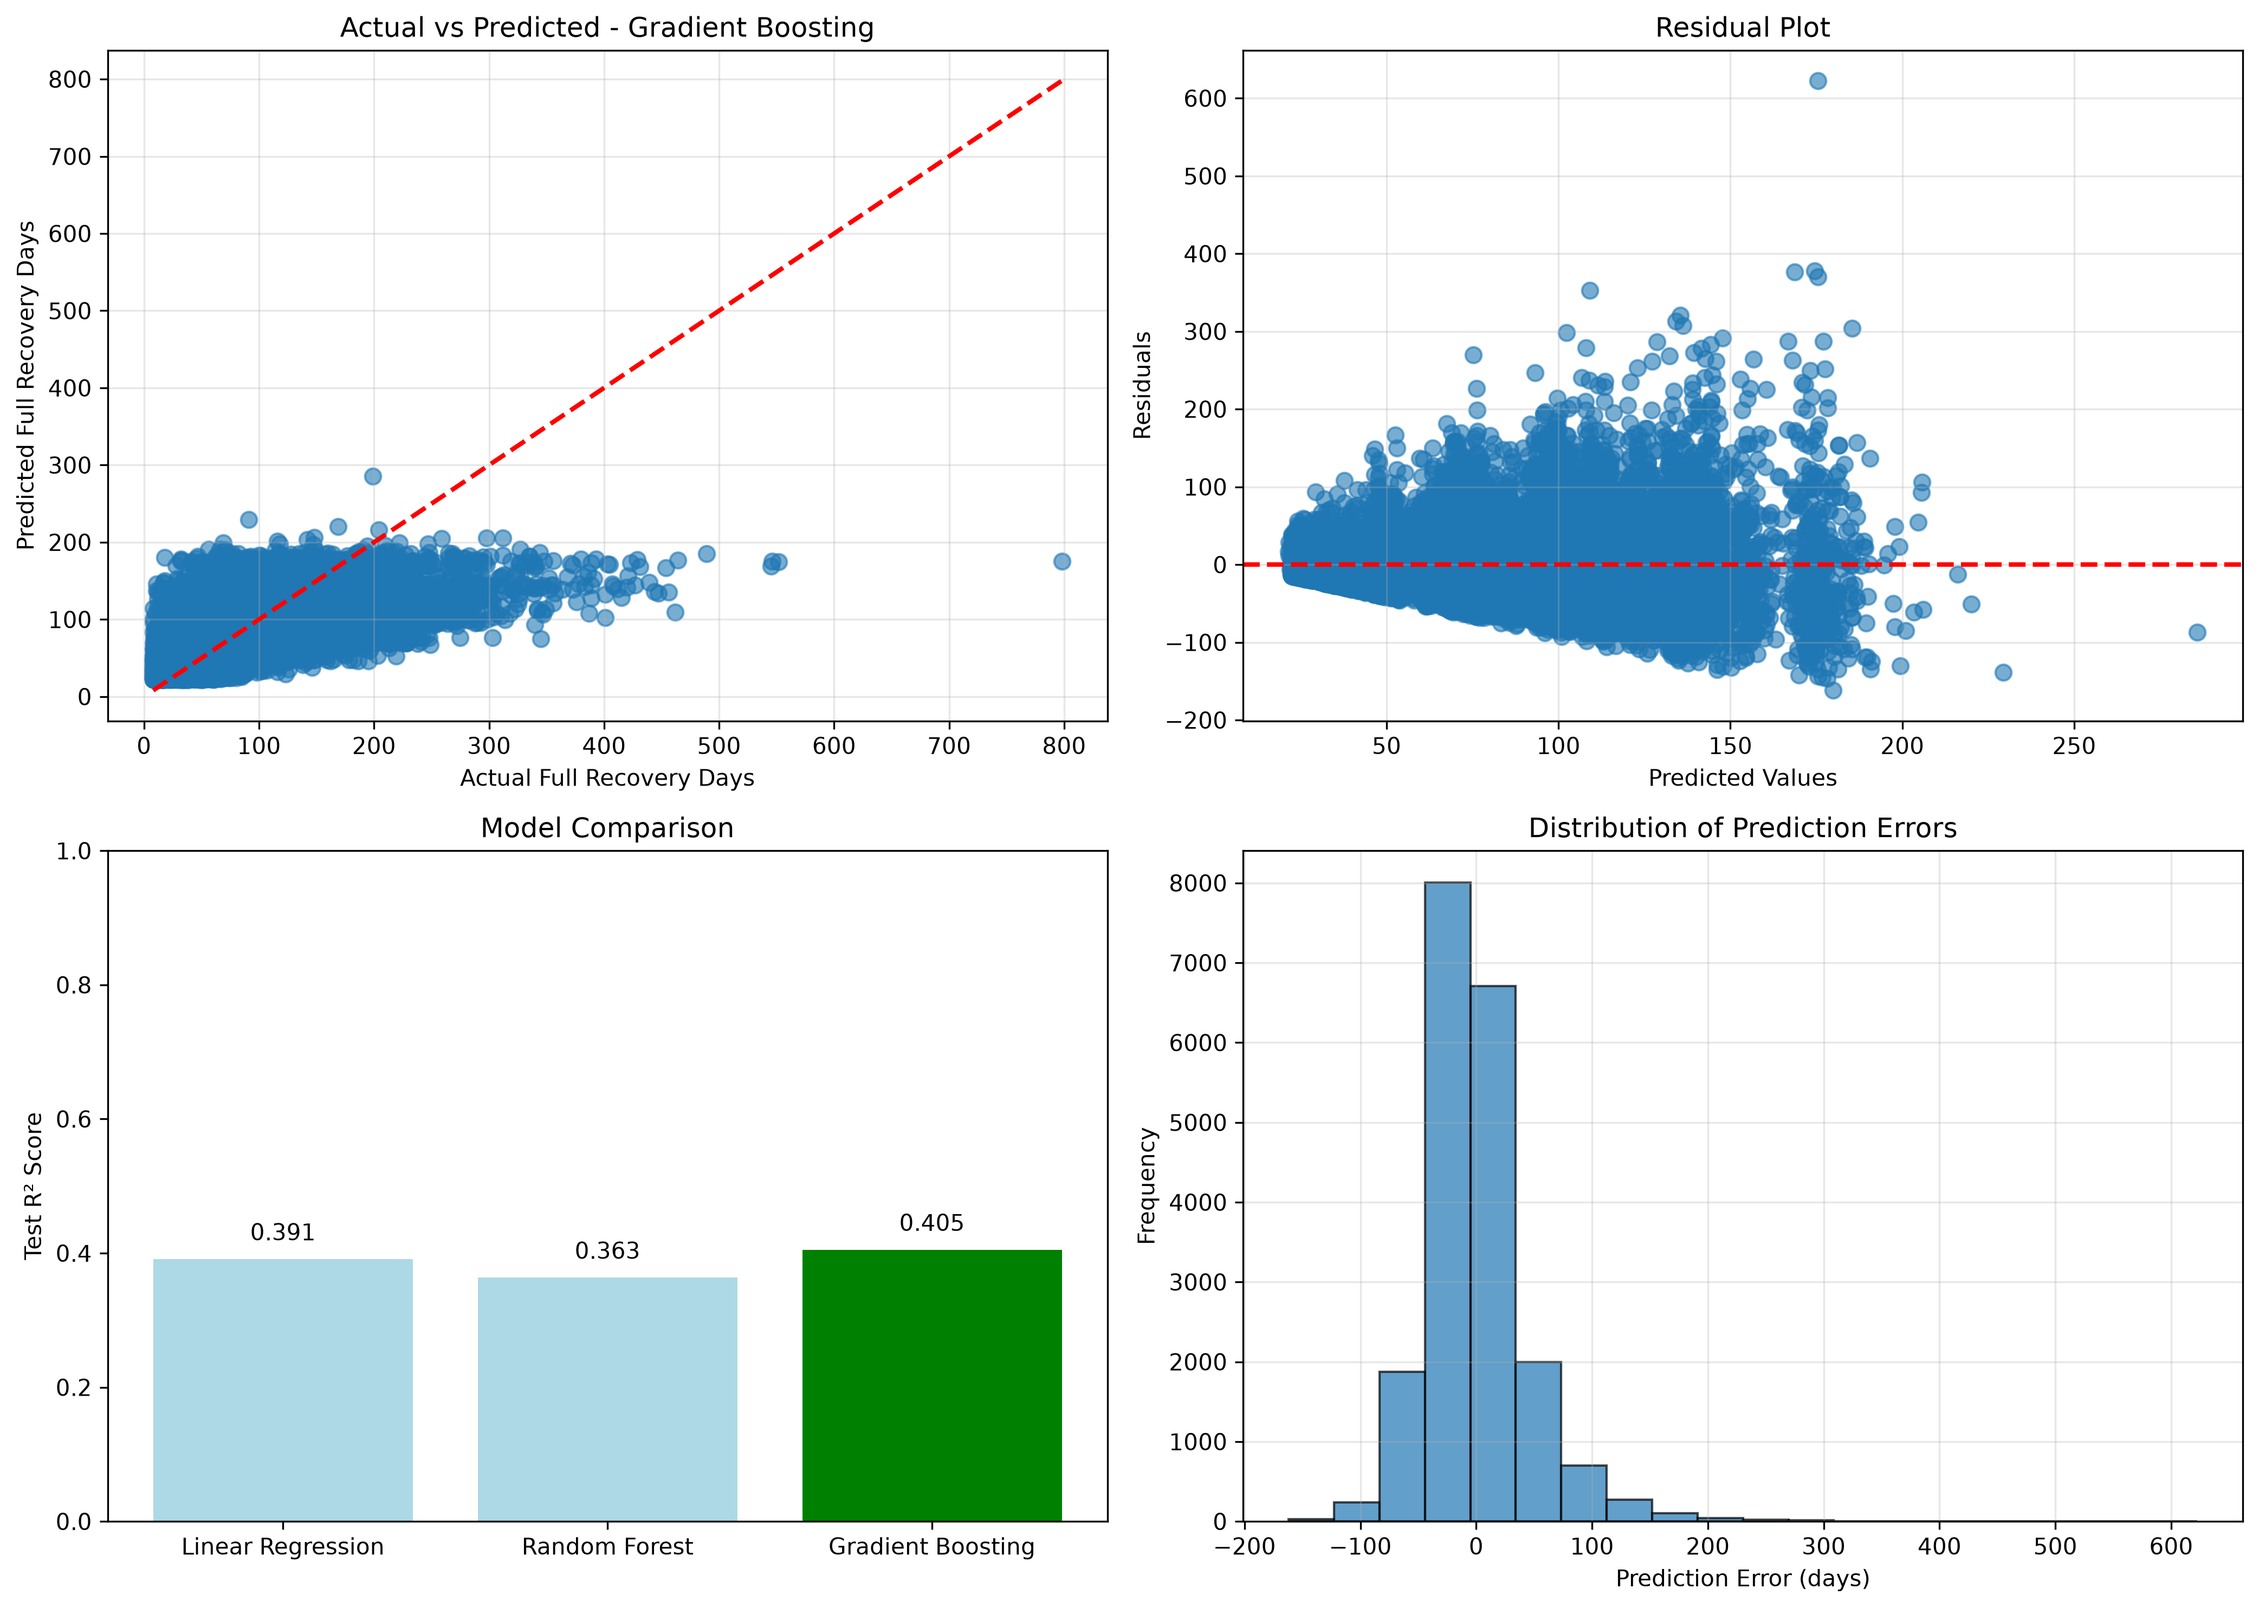
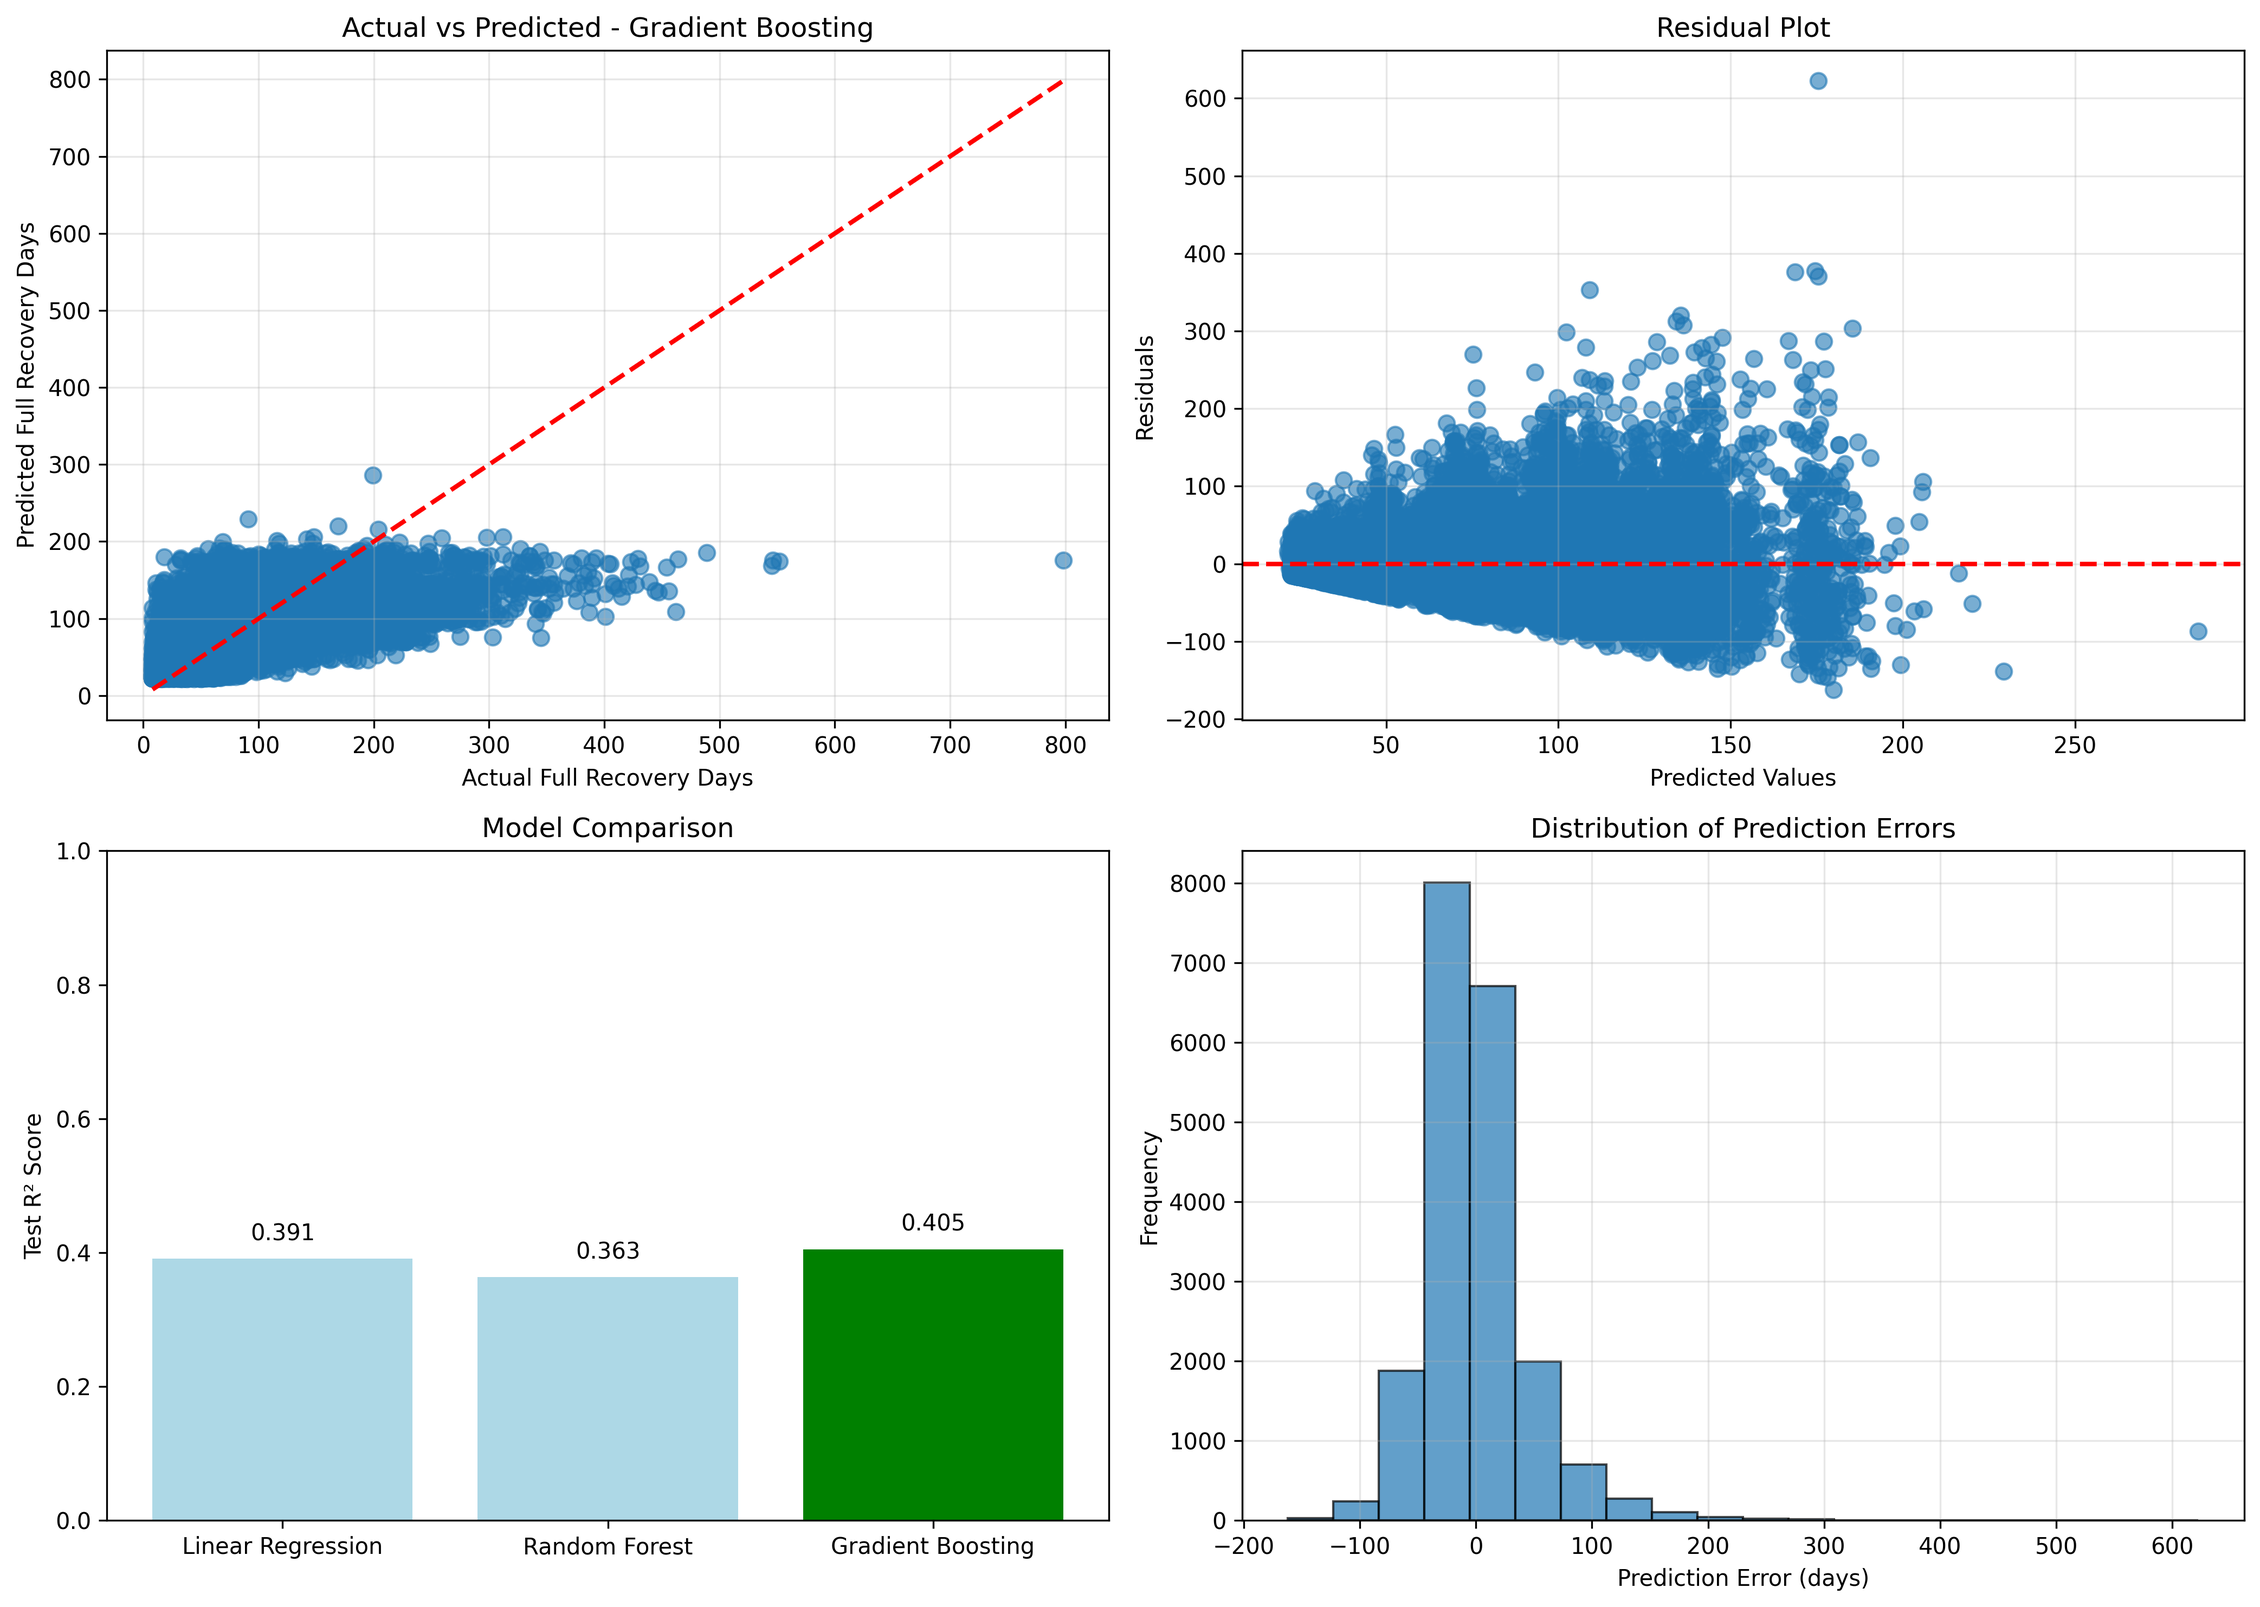
Add Streamlit dashboard and complete prediction API integration

diff --git a/api/dashboard.py b/api/dashboard.py
@@ -1,0 +1,74 @@
+import streamlit as st
+import requests
+
+st.set_page_config(page_title="Supply Chain Disruption Predictor")
+
+st.title("🚚 Supply Chain Disruption Predictor")
+
+disruption_type = st.selectbox(
+    "Disruption Type",
+    [
+        "cyber attack",
+        "factory incident",
+        "geopolitical",
+        "labor strike",
+        "natural disaster",
+        "port congestion",
+    ],
+)
+
+industry = st.text_input("Industry", "automotive")
+
+supplier_region = st.selectbox(
+    "Supplier Region",
+    [
+        "africa/middle east",
+        "asia-pacific",
+        "europe",
+        "north america",
+        "south america",
+    ],
+)
+
+supplier_size = st.text_input("Supplier Size", "large")
+
+response_type = st.text_input("Response Type", "alternative supplier")
+
+disruption_severity = st.slider("Severity", 1, 10, 8)
+
+production_impact_pct = st.slider(
+    "Production Impact (%)",
+    0,
+    100,
+    75,
+)
+
+if st.button("Predict Recovery Time"):
+
+    payload = {
+        "disruption_type": disruption_type,
+        "industry": industry,
+        "supplier_region": supplier_region,
+        "supplier_size": supplier_size,
+        "response_type": response_type,
+        "disruption_severity": disruption_severity,
+        "production_impact_pct": production_impact_pct,
+    }
+
+    response = requests.post(
+        "http://localhost:8000/predict",
+        json=payload,
+    )
+
+    if response.status_code == 200:
+        data = response.json()
+
+        st.success(
+            f"Predicted Recovery Time: "
+            f"{data['predicted_full_recovery_days']:.2f} days"
+        )
+
+        st.json(data)
+
+    else:
+        st.error(response.text)

diff --git a/app/api.py b/app/api.py
@@ -45,6 +45,7 @@ def load_artifacts():
         return False
 
     model_path = find_model_file()
+
     required_files = [
         model_path,
         MODELS_DIR / "scaler.pkl",
@@ -56,7 +57,7 @@ def load_artifacts():
         return False
 
     model = joblib.load(required_files[0])
-    joblib.load(required_files[1])
+    joblib.load(required_files[1])  # scaler loaded if needed later
     label_encoders = joblib.load(required_files[2])
 
     with open(required_files[3], "r", encoding="utf-8") as f:
@@ -76,6 +77,14 @@ class PredictionInput(BaseModel):
     response_type: str
     disruption_severity: float
     production_impact_pct: float
+
+
+@app.get("/")
+def root():
+    return {
+        "message": "Supply Chain Disruption Prediction API",
+        "status": "running",
+    }
 
 
 @app.get("/health")
@@ -102,12 +111,15 @@ def predict(payload: PredictionInput):
 
     for col in label_encoders:
         if col in input_df.columns:
-            input_df[col] = label_encoders[col].transform(input_df[col].astype(str))
+            input_df[col] = label_encoders[col].transform(
+                input_df[col].astype(str)
+            )
 
     input_df = input_df.reindex(columns=feature_names, fill_value=0)
 
     prediction = float(model.predict(input_df)[0])
+
     return {
-        "predicted_full_recovery_days": prediction,
+        "predicted_full_recovery_days": round(prediction, 2),
         "input": payload.model_dump(),
     }

diff --git a/main.py b/main.py
@@ -2,4 +2,4 @@ from app.api import app
 import uvicorn
 
 if __name__ == "__main__":
-    uvicorn.run(app, host="0.0.0.0", port=8000, reload=True)
+    uvicorn.run("app.api:app", host="0.0.0.0", port=8000, reload=True)
